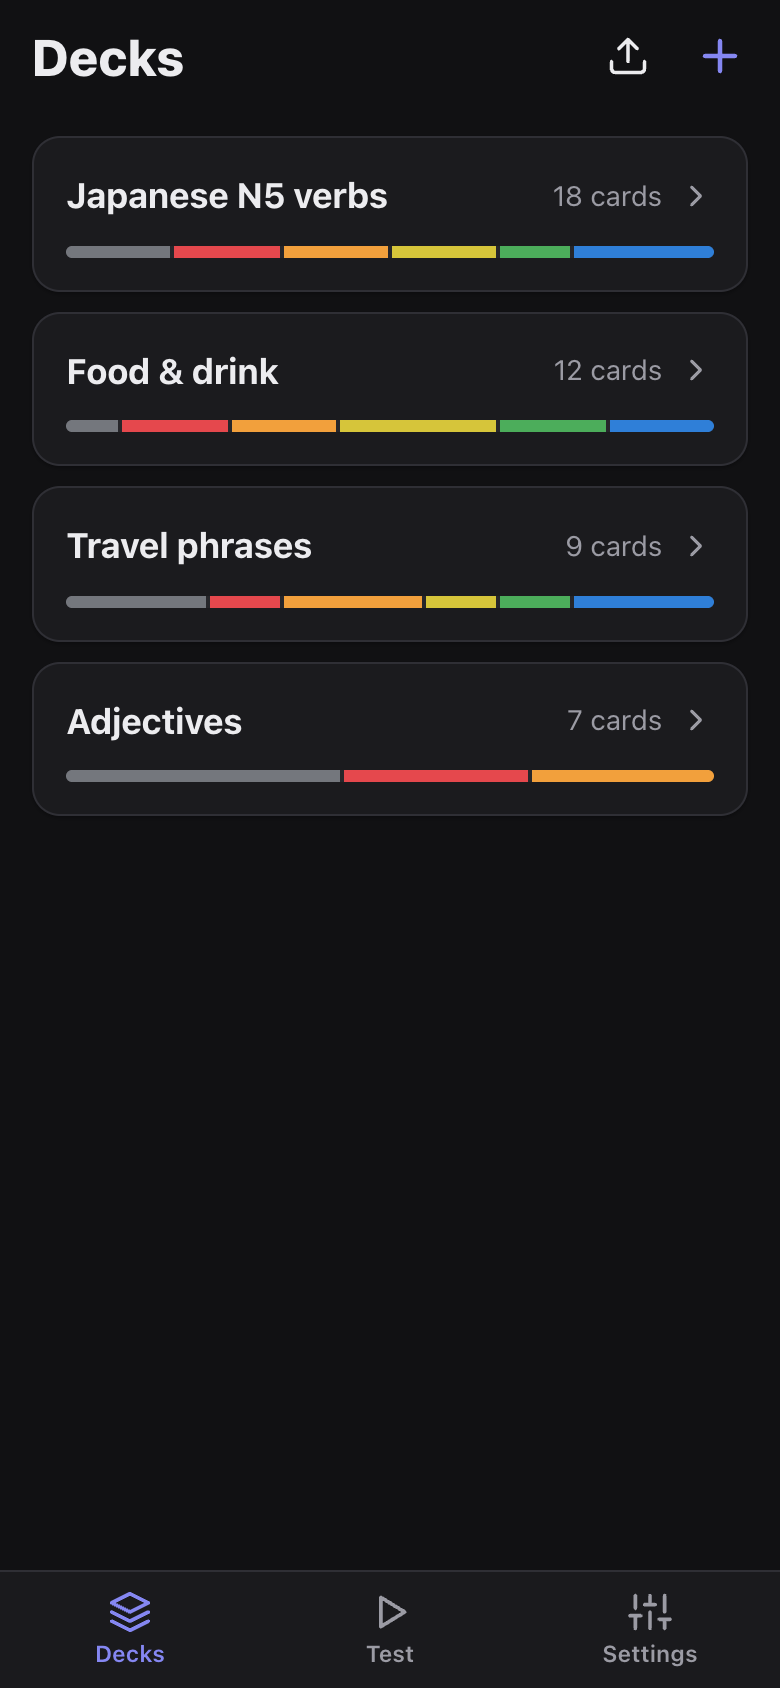
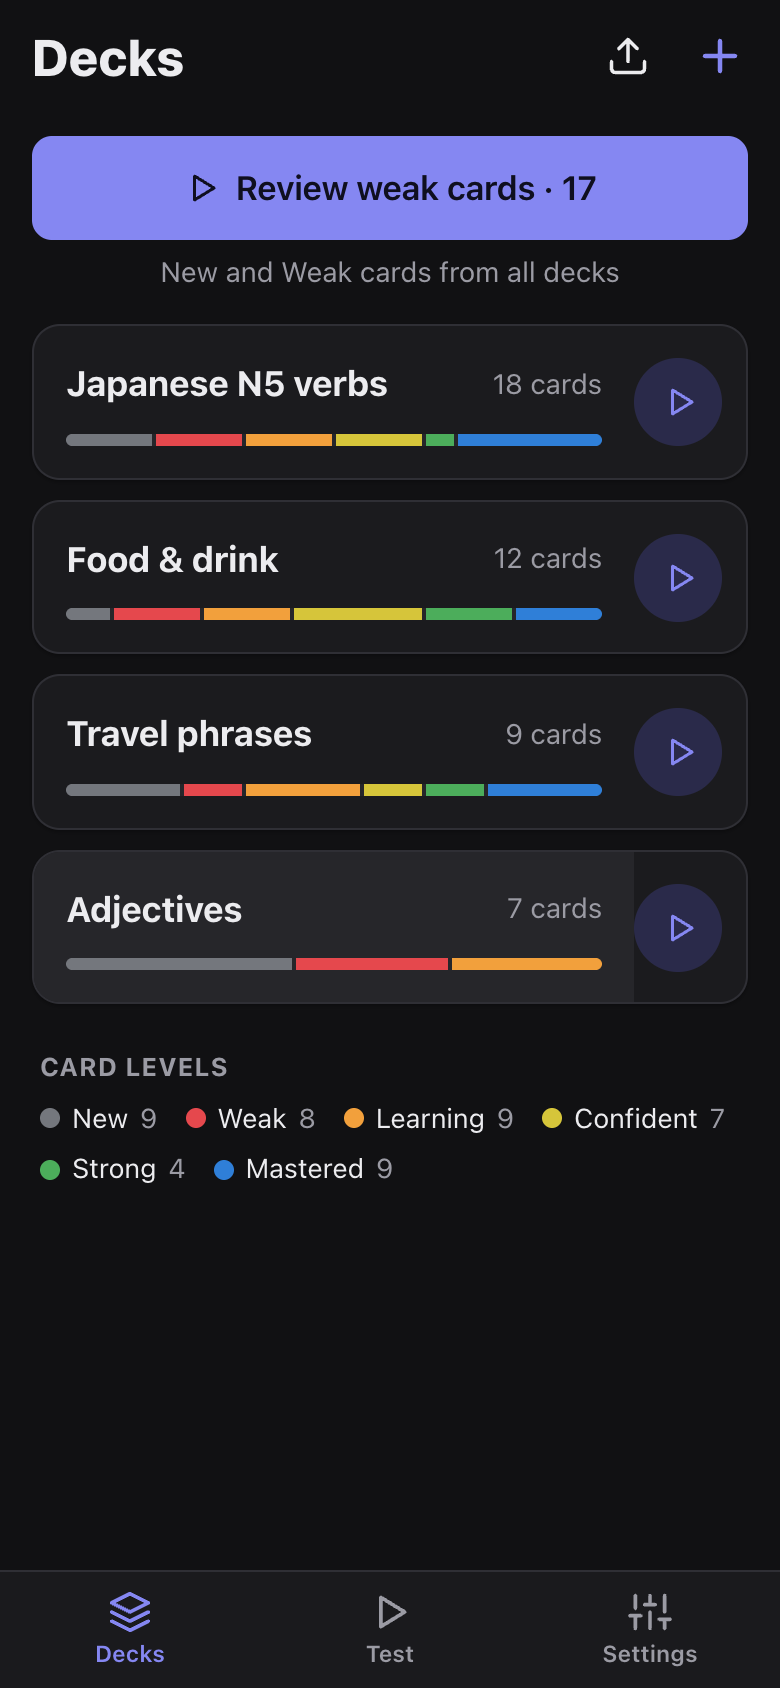
Update README and screenshots for the design pass
Retake the screenshots with the new design, add a session summary
shot, and describe one-tap study, the Options group, undo, the
summary, the Appearance setting and the backup reminder.

diff --git a/README.md b/README.md
@@ -7,30 +7,36 @@ I built this for my partner: she wanted a flashcard app on her iPhone and none o
 **Live app:** https://hlib-zinchenko.github.io/flashcards-pwa/
 
 <p>
-  <img src="docs/screenshots/decks.png" alt="Deck list with learning-level bars" width="220">
-  <img src="docs/screenshots/deck.png" alt="Deck with its cards and tags" width="220">
-  <img src="docs/screenshots/test-setup.png" alt="Test setup: decks, mode, order, level and tag filters" width="220">
+  <img src="docs/screenshots/decks.png" alt="Deck list with a Review weak cards button, a play button per deck and a card-level legend" width="220">
+  <img src="docs/screenshots/test-setup.png" alt="Test setup: decks, number of cards, and a collapsed Options row showing the current settings" width="220">
   <img src="docs/screenshots/test-swipe.png" alt="Swiping a card right to mark it known" width="220">
-  <img src="docs/screenshots/test-back.png" alt="Card back with tags and notes" width="220">
-  <img src="docs/screenshots/test-back-dark.png" alt="Card back in dark theme" width="220">
+  <img src="docs/screenshots/test-back.png" alt="Card back with tags and notes, with undo in the header" width="220">
+  <img src="docs/screenshots/summary.png" alt="Summary after quitting early: 6 of 7 known, missed cards listed, Continue button" width="220">
+  <img src="docs/screenshots/deck.png" alt="Deck with its cards and tags" width="220">
+  <img src="docs/screenshots/settings.png" alt="Settings with language and System, Light, Dark appearance" width="220">
+  <img src="docs/screenshots/decks-dark.png" alt="Deck list in dark theme" width="220">
 </p>
 
 ## Features
 
-- **Decks & cards:** create, rename and delete decks; add, edit, reorder and move cards, with optional notes per card. Quick-add form: Enter moves to the next field, Enter again saves.
+- **One-tap study:** *Review weak cards* on the home screen starts a session with every New and Weak card; the ▶ button on a deck starts that deck. Both keep your usual direction, mode, order and card count.
+- **Decks & cards:** create, rename and delete decks; add, edit, reorder and move cards, with optional notes per card. Quick-add form: Enter moves to the next field, Enter again saves. Deleting a card can be undone from the toast.
 - **Tags:** built-in `verb`, `noun`, `adjective`, `phrase`, plus your own.
-- **Learning levels:** New → Weak → Learning → Confident → Strong → Mastered. *Know* moves a card up one level, *Don't know* moves it down one. There is no scheduling: you choose what to study.
+- **Learning levels:** New → Weak → Learning → Confident → Strong → Mastered. *Know* moves a card up one level, *Don't know* moves it down one. There is no scheduling: you choose what to study. The home screen shows a colored bar per deck and a legend with totals per level.
 - **Test mode**
-  - Pick one or more decks, show the front or back first.
-  - *Cram*: known cards leave the session, missed ones go back at a random spot until you know them all. *Refresh*: one pass, answers only update levels.
-  - Order: deck order, random, level ascending (weakest first).
-  - Filter by level and tag, and limit the number of cards.
+  - Pick one or more decks and how many cards. Everything else sits under **Options**, which shows the current choices when collapsed:
+    - show the front or back first;
+    - *Cram*: known cards leave the session, missed ones go back at a random spot until you know them all. *Refresh*: one pass, answers only update levels;
+    - order: deck order, random, level ascending (weakest first);
+    - filter by level and tag.
   - Gestures: **tap** flips · **swipe right** = know · **swipe left** = don't know · **swipe down** = edit card. A **Notes** button on both sides of the card reveals its notes.
-  - Keyboard: Space / ↑ / ↓ flip · → know · ← don't know · E edits · Esc finishes.
+  - **Undo last answer** (header button) puts the card back and restores its level.
+  - Keyboard: Space / ↑ / ↓ flip · → know · ← don't know · Z or Backspace undo · E edits · Esc finishes.
+  - The summary leads with how many cards you knew on the first try and lists the ones you missed. If you stop early, **Continue** picks up where you left off; **Done** goes back to where you started.
 - **Import / export**
   - JSON backup of the whole library (with progress), for moving to another device. Merge or replace on import.
   - CSV/TSV per deck: `front,back,tags,notes` with tags separated by `|` (tags and notes optional). Handy for writing cards in Excel or Google Sheets on a PC.
-- English and Ukrainian UI, light and dark theme, works offline.
+- English and Ukrainian UI. Appearance: System, Light or Dark. Works offline.
 
 ## Install on a phone
 
@@ -53,7 +59,7 @@ The header row is optional. Comma, tab and semicolon separators are all detected
 
 ## Your data
 
-Everything lives in the browser's IndexedDB on your device. Nothing is sent anywhere. The app asks the browser to keep storage persistent (you can also do it in Settings), but the browser can still clear it, so export a backup now and then.
+Everything lives in the browser's IndexedDB on your device. Nothing is sent anywhere. The app asks the browser to keep storage persistent (you can also do it in Settings), but the browser can still clear it, so export a backup now and then. Settings shows when you last exported, and after 10 study sessions without a backup it reminds you (with a dot on the Settings tab).
 
 ## Updates
 
